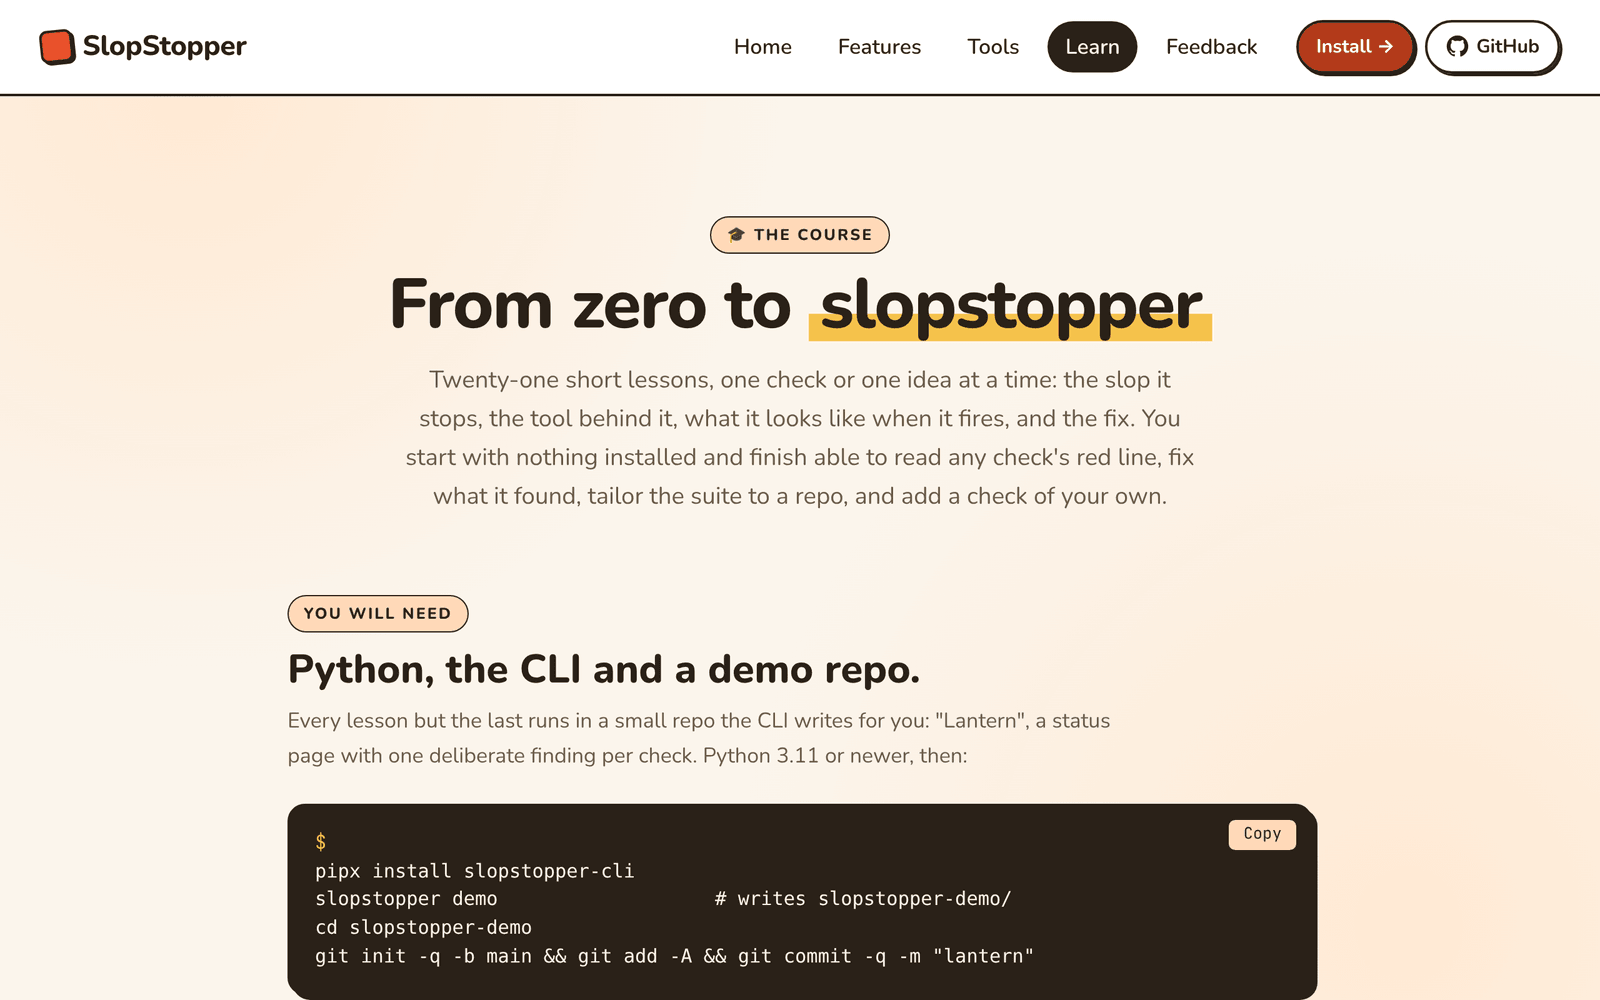
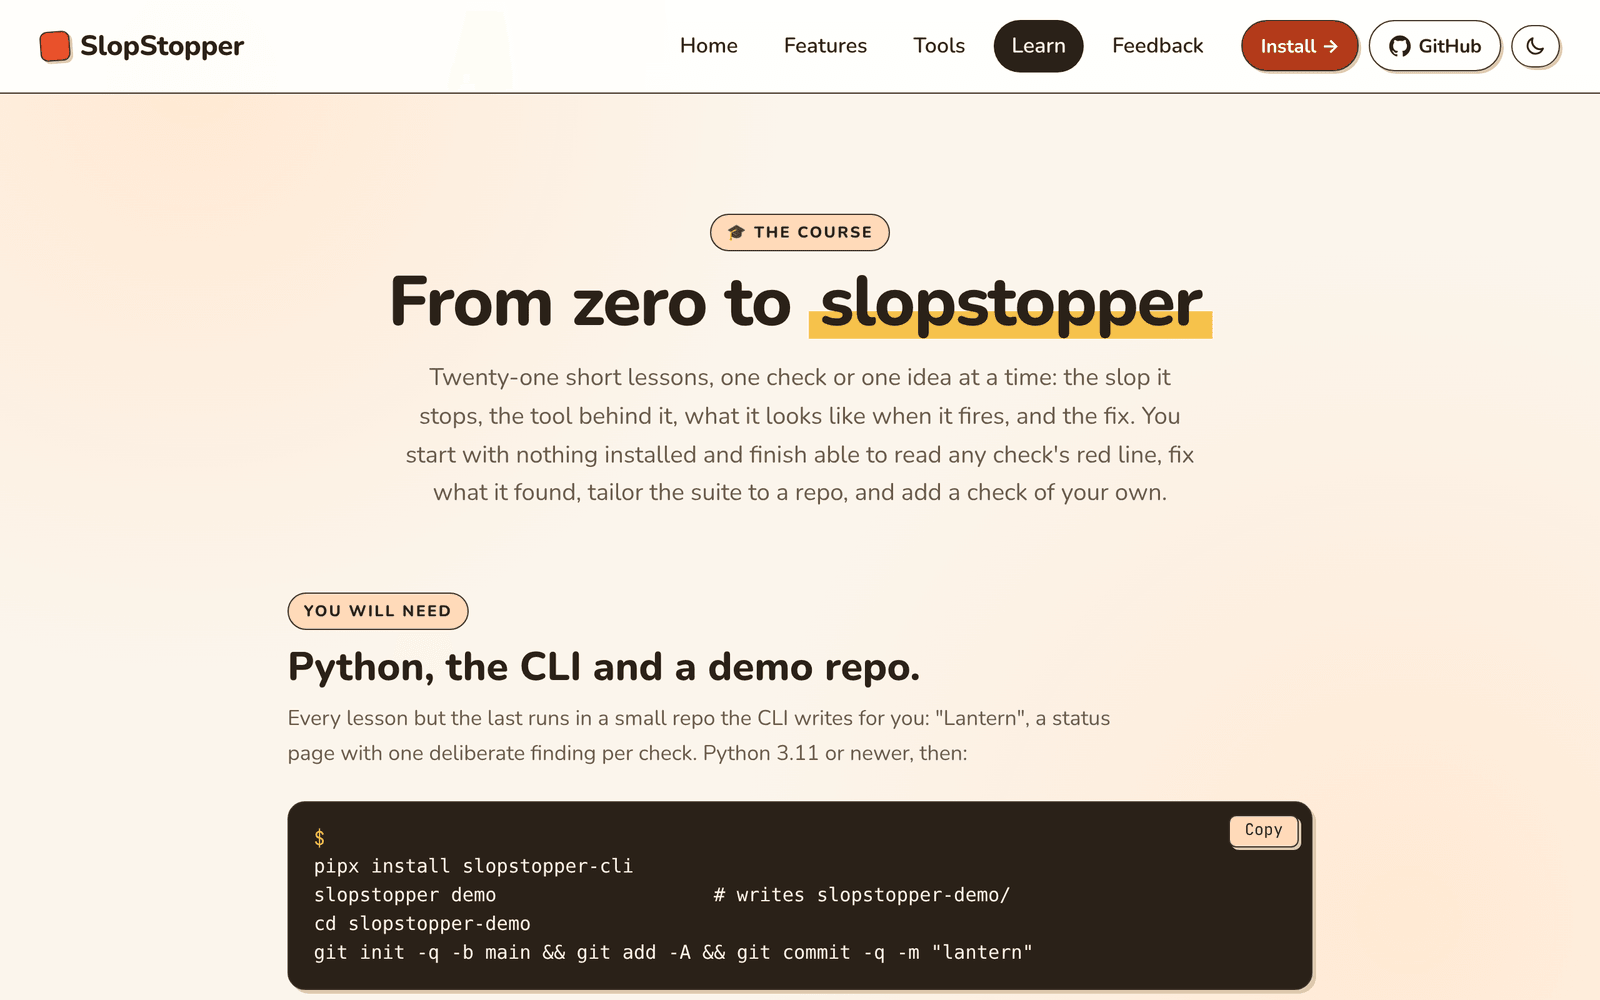
docs(blog): reflect this week's slopstopper and steward changes
The steward is now runnable by any organisation as a fork or template
(slopstopper-steward#27), so the post gains a short Run Your Own
section: fork or template, your own steward.yml from the example, your
own GitHub App with the ID as a variable and the key as a secret, a
Claude token, plan-only first, and the exit-2 guard on the example's
your-org. The setup runbook joins the sources. slopstopper.dev shipped a
dark theme and a redesign (slopstopper#597), so the Learn page capture
is refreshed from the new app and the course paragraph says so.

Claude-Session: https://claude.ai/code/session_01RQF49TDta4WCef1C4XcgjV

diff --git a/src/content/blog/2026-11-07-slopstopper-steward-course-and-friends.md b/src/content/blog/2026-11-07-slopstopper-steward-course-and-friends.md
@@ -82,9 +82,9 @@ slopstopper demo        # writes slopstopper-demo/, a two-page status page calle
 
 Lantern is a little status page with one deliberate finding per check: a complexity hotspot, a README over budget, a missing header, a requests pin from 2018 with a CVE on it. The one thing it doesn't carry is a secret, because a realistic-looking key in a public repo gets found by every scanner on the internet and reported to the vendor. That lesson has you write your own fake one.
 
-On top of the demo is the course, [From zero to slopstopper](https://slopstopper.dev/learn): twenty-one short lessons, one check or one idea each, with a YouTube episode to come for every one. Every command in every lesson runs in CI, which I added after lesson 4's commands rotted while I was writing lesson 5. The two Claude Code skills from June, `slopstopper-install` and `slopstopper-triage`, now ship inside the CLI, so when the pin moves the playbook the agent reads moves with it.
+On top of the demo is the course, [From zero to slopstopper](https://slopstopper.dev/learn): twenty-one short lessons, one check or one idea each, with a YouTube episode to come for every one. The site got a dark theme this week too, for those of you reading this after last orders. Every command in every lesson runs in CI, which I added after lesson 4's commands rotted while I was writing lesson 5. The two Claude Code skills from June, `slopstopper-install` and `slopstopper-triage`, now ship inside the CLI, so when the pin moves the playbook the agent reads moves with it.
 
-![The From zero to slopstopper course page on slopstopper.dev: twenty-one short lessons, what you will need, and the four commands that install the CLI and write the Lantern demo repo](/assets/2026-11-07-slopstopper-steward-course-and-friends/learn.png)
+![The From zero to slopstopper course page on slopstopper.dev after this week's redesign, with a theme toggle in the header: twenty-one short lessons, what you will need, and the four commands that install the CLI and write the Lantern demo repo](/assets/2026-11-07-slopstopper-steward-course-and-friends/learn.png)
 
 ## The Steward Does the Rounds
 
@@ -95,6 +95,10 @@ So I built [slopstopper-steward](https://github.com/hungovercoders/slopstopper-s
 ![One steward run as a pipeline of seven steps: discover, inventory, plan, execute, self-review, settle and report. Five are plain code. Execute and settle hand two judgement calls, reading a refresh and fixing a red check, to a boxed Claude Code agent with its own OS user, no token and no network. Whatever it changes goes back up through the gates, the pinned CLI's checks and then the pull request's own CI, before anything is pushed](/assets/2026-11-07-slopstopper-steward-course-and-friends/steward-run.svg)
 
 I didn't want an agent anywhere near a push token, so it doesn't get one. It runs as its own OS user in its own copy of the clone, with no network, a tool allow-list, a dollar cap and a turn cap, and it never gets a vote on whether its own change passes. Which model does the judging is one line in `steward.yml`, passed straight to `claude --model`. Mine says `sonnet` and so far Sonnet has been really cheap for this: twelve cents to read a refresh and change nothing, twenty to read one and write up why nothing needed changing, thirty to find a function over the complexity ceiling, split it and have a second run review the split. Every PR body says which model ran and what it cost.
+
+### Run Your Own
+
+As of this week it isn't just mine. The repo at hungovercoders/slopstopper-steward is hungovercoders' copy, not a service, and it's built to be forked. Fork it (or use it as a template if your org won't allow forks), replace `steward.yml` from the example with your own orgs, install your own GitHub App on your adopters with its ID as a variable and its key as a secret, add a Claude token, and run `steward plan` before you let it open anything. A copy that still has the example's `your-org` in its config exits 2 before it reads a thing, which is me saving you from my own first mistake. The fork keeps its link upstream, so when I fix something a Sync fork brings it in. The [setup runbook](https://github.com/hungovercoders/slopstopper-steward/blob/main/docs/runbooks/SETUP.md) walks the whole thing.
 
 ### Dependabot's Round
 
@@ -134,7 +138,7 @@ This post is the guided path. These are the sources.
 
 - [slopstopper.dev](https://slopstopper.dev) for the install one-liner, the checks and the profiles, and [From zero to slopstopper](https://slopstopper.dev/learn) for the course.
 - The [slopstopper repo](https://github.com/hungovercoders/slopstopper) and its [changelog](https://github.com/hungovercoders/slopstopper/blob/main/CHANGELOG.md), where 0.26.0 to 0.29.0 is the stretch this post covers.
-- The [steward repo](https://github.com/hungovercoders/slopstopper-steward) and its [architecture doc](https://github.com/hungovercoders/slopstopper-steward/blob/main/docs/architecture/README.md), where the box and the settle loop are written up in full.
+- The [steward repo](https://github.com/hungovercoders/slopstopper-steward), its [architecture doc](https://github.com/hungovercoders/slopstopper-steward/blob/main/docs/architecture/README.md), where the box and the settle loop are written up in full, and its [setup runbook](https://github.com/hungovercoders/slopstopper-steward/blob/main/docs/runbooks/SETUP.md) for running your own.
 - [The June post](/blog/2026-06-21-slopstopper-cli-and-tooling/), for where this started.
 
 ## What Next
